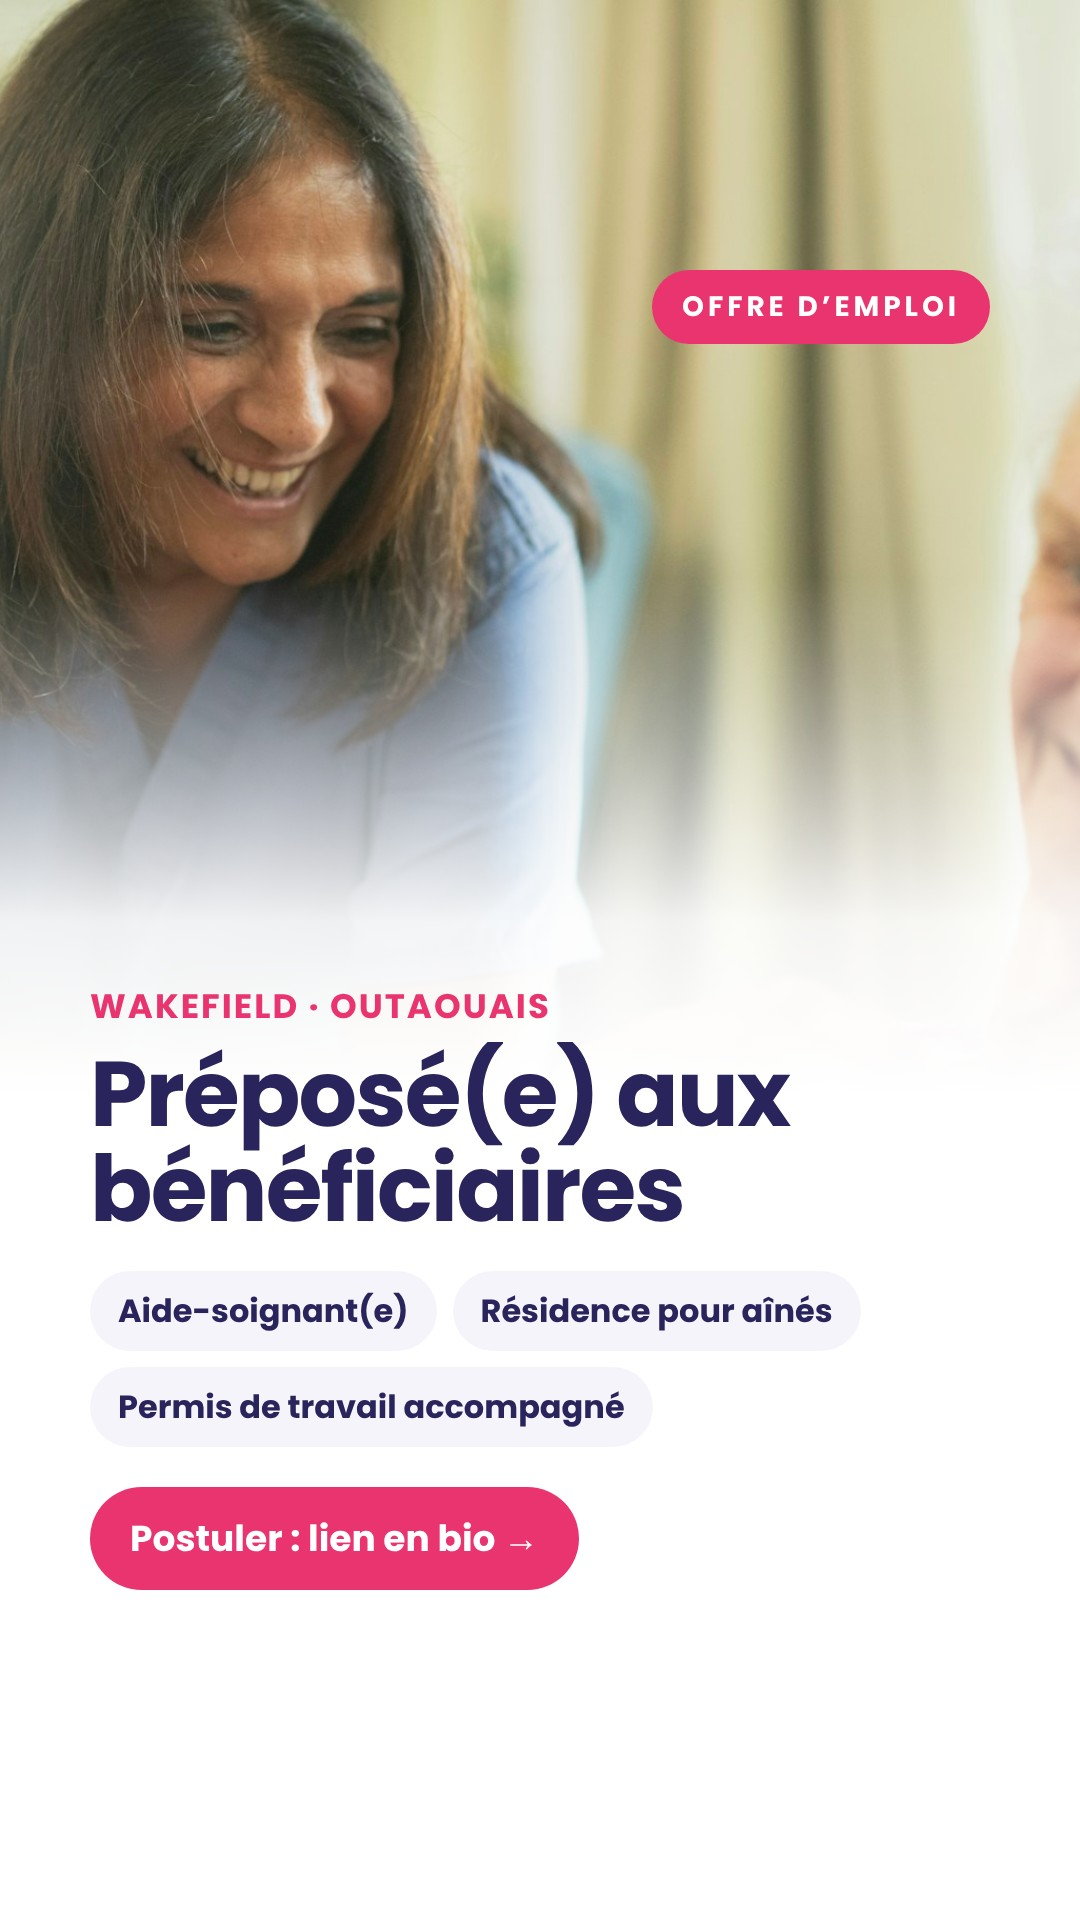
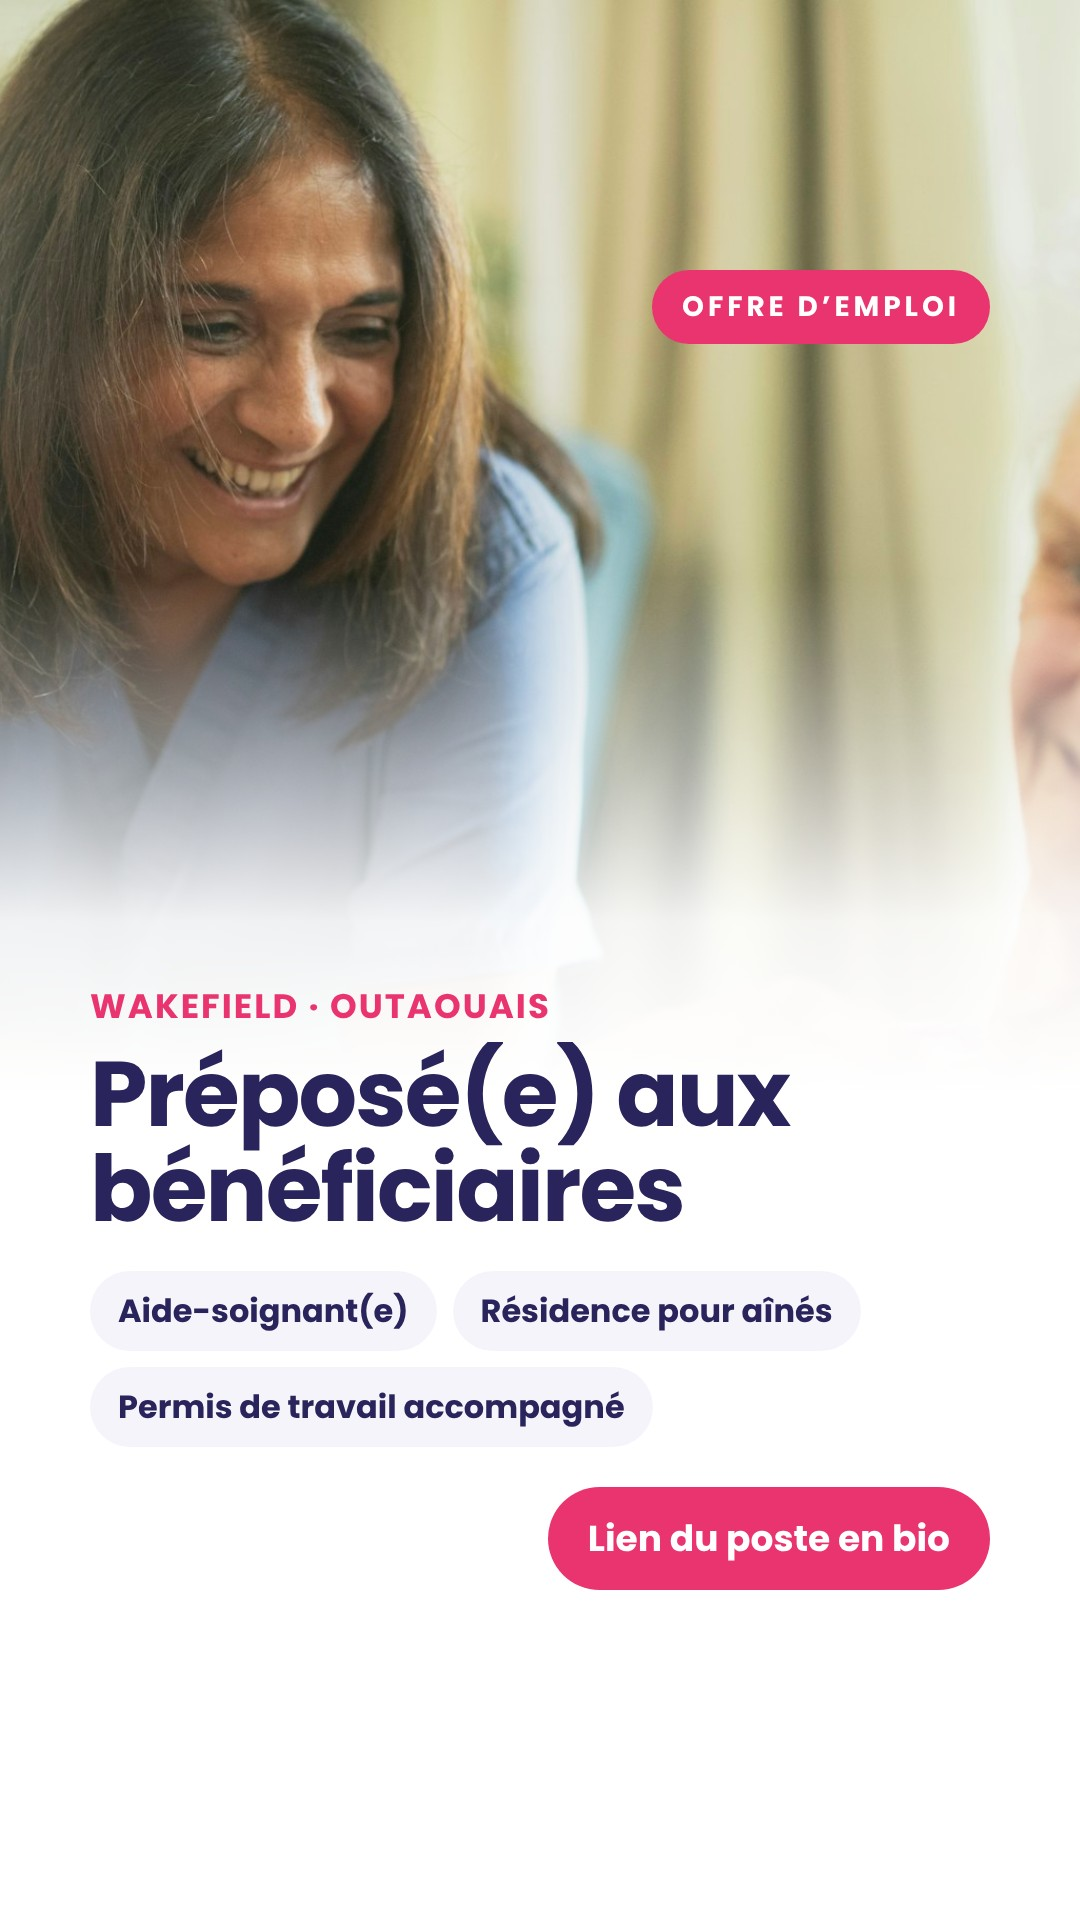
Offres : pastille « Lien du poste en bio », plus de salaire
Claude-Session: https://claude.ai/code/session_01NBGakcBRwoq7RKRswmKrSM

Changed region(s): [[0.0611, 0.75, 0.9167, 0.8438]]

diff --git a/tools/visuels/stories/offre-2.html b/tools/visuels/stories/offre-2.html
@@ -3,4 +3,4 @@
 .loc{color:#ea346f;font-weight:700;font-size:34px;letter-spacing:.06em;text-transform:uppercase}
 .s h1{font-size:92px;margin-top:14px}
 .ctab{display:inline-block;margin-top:40px;align-self:flex-start;background:#ea346f;color:#fff;font-weight:700;font-size:36px;padding:24px 40px;border-radius:999px}
-</style><style>.safe .tag{align-self:flex-end}</style></head><body><div class="s" style="background:#fff"><img class="photo" src="j-aide-soignante.jpg" style="object-position:30% 20%;height:62%"><div class="grad" style="background:linear-gradient(180deg,rgba(255,255,255,0) 30%,rgba(255,255,255,.92) 48%,#fff 57%)"></div><div class="safe"><span class="tag">Offre d’emploi</span><div style="margin-top:auto"><div class="loc">Wakefield · Outaouais</div><h1>Préposé(e) aux bénéficiaires</h1><div class="chips"><span class="chip">Aide-soignant(e)</span><span class="chip">Résidence pour aînés</span><span class="chip">Permis de travail accompagné</span></div><span class="ctab">Postuler : lien en bio →</span></div></div></div></body></html>
+</style><style>.safe .tag{align-self:flex-end}</style></head><body><div class="s" style="background:#fff"><img class="photo" src="j-aide-soignante.jpg" style="object-position:30% 20%;height:62%"><div class="grad" style="background:linear-gradient(180deg,rgba(255,255,255,0) 30%,rgba(255,255,255,.92) 48%,#fff 57%)"></div><div class="safe"><span class="tag">Offre d’emploi</span><div style="margin-top:auto"><div class="loc">Wakefield · Outaouais</div><h1>Préposé(e) aux bénéficiaires</h1><div class="chips"><span class="chip">Aide-soignant(e)</span><span class="chip">Résidence pour aînés</span><span class="chip">Permis de travail accompagné</span></div><div style="display:flex;justify-content:flex-end"><span class="ctab">Lien du poste en bio</span></div></div></div></div></body></html>

diff --git a/tools/visuels/stories/offre-4.html b/tools/visuels/stories/offre-4.html
@@ -3,4 +3,4 @@
 .loc{color:#ea346f;font-weight:700;font-size:34px;letter-spacing:.06em;text-transform:uppercase}
 .s h1{font-size:92px;margin-top:14px}
 .ctab{display:inline-block;margin-top:40px;align-self:flex-start;background:#ea346f;color:#fff;font-weight:700;font-size:36px;padding:24px 40px;border-radius:999px}
-</style><style>.safe .tag{align-self:flex-end}</style></head><body><div class="s" style="background:#fff"><img class="photo" src="j-vendeur.jpg" style="object-position:60% 30%;height:62%"><div class="grad" style="background:linear-gradient(180deg,rgba(255,255,255,0) 30%,rgba(255,255,255,.92) 48%,#fff 57%)"></div><div class="safe"><span class="tag">Offre d’emploi</span><div style="margin-top:auto"><div class="loc">Saguenay et autres villes</div><h1>Conseiller à la vente H/F</h1><div class="chips"><span class="chip">Meubles et électroménager</span><span class="chip">Équipe de 4 à 7</span><span class="chip">Permis de travail accompagné</span></div><span class="ctab">Postuler : lien en bio →</span></div></div></div></body></html>
+</style><style>.safe .tag{align-self:flex-end}</style></head><body><div class="s" style="background:#fff"><img class="photo" src="j-vendeur.jpg" style="object-position:60% 30%;height:62%"><div class="grad" style="background:linear-gradient(180deg,rgba(255,255,255,0) 30%,rgba(255,255,255,.92) 48%,#fff 57%)"></div><div class="safe"><span class="tag">Offre d’emploi</span><div style="margin-top:auto"><div class="loc">Saguenay et autres villes</div><h1>Conseiller à la vente H/F</h1><div class="chips"><span class="chip">Meubles et électroménager</span><span class="chip">Équipe de 4 à 7</span><span class="chip">Permis de travail accompagné</span></div><div style="display:flex;justify-content:flex-end"><span class="ctab">Lien du poste en bio</span></div></div></div></div></body></html>

diff --git a/tools/visuels/stories/offre-3.html b/tools/visuels/stories/offre-3.html
@@ -3,4 +3,4 @@
 .loc{color:#ea346f;font-weight:700;font-size:34px;letter-spacing:.06em;text-transform:uppercase}
 .s h1{font-size:92px;margin-top:14px}
 .ctab{display:inline-block;margin-top:40px;align-self:flex-start;background:#ea346f;color:#fff;font-weight:700;font-size:36px;padding:24px 40px;border-radius:999px}
-</style><style>.safe .tag{align-self:flex-end}</style></head><body><div class="s" style="background:#fff"><img class="photo" src="j-mecanicien.jpg" style="object-position:50% 30%;height:62%"><div class="grad" style="background:linear-gradient(180deg,rgba(255,255,255,0) 30%,rgba(255,255,255,.92) 48%,#fff 57%)"></div><div class="safe"><span class="tag">Offre d’emploi</span><div style="margin-top:auto"><div class="loc">Région de Québec</div><h1>Mécanicien poids lourds H/F</h1><div class="chips"><span class="chip">Temps plein 40 h</span><span class="chip">Formation fournie</span><span class="chip">Permis de travail accompagné</span></div><span class="ctab">Postuler : lien en bio →</span></div></div></div></body></html>
+</style><style>.safe .tag{align-self:flex-end}</style></head><body><div class="s" style="background:#fff"><img class="photo" src="j-mecanicien.jpg" style="object-position:50% 30%;height:62%"><div class="grad" style="background:linear-gradient(180deg,rgba(255,255,255,0) 30%,rgba(255,255,255,.92) 48%,#fff 57%)"></div><div class="safe"><span class="tag">Offre d’emploi</span><div style="margin-top:auto"><div class="loc">Région de Québec</div><h1>Mécanicien poids lourds H/F</h1><div class="chips"><span class="chip">Temps plein 40 h</span><span class="chip">Formation fournie</span><span class="chip">Permis de travail accompagné</span></div><div style="display:flex;justify-content:flex-end"><span class="ctab">Lien du poste en bio</span></div></div></div></div></body></html>

diff --git a/tools/visuels/stories/offre-1.html b/tools/visuels/stories/offre-1.html
@@ -3,4 +3,4 @@
 .loc{color:#ea346f;font-weight:700;font-size:34px;letter-spacing:.06em;text-transform:uppercase}
 .s h1{font-size:92px;margin-top:14px}
 .ctab{display:inline-block;margin-top:40px;align-self:flex-start;background:#ea346f;color:#fff;font-weight:700;font-size:36px;padding:24px 40px;border-radius:999px}
-</style><style>.safe .tag{align-self:flex-end}</style></head><body><div class="s" style="background:#fff"><img class="photo" src="j-chef.jpg" style="object-position:50% 25%;height:62%"><div class="grad" style="background:linear-gradient(180deg,rgba(255,255,255,0) 30%,rgba(255,255,255,.92) 48%,#fff 57%)"></div><div class="safe"><span class="tag">Offre d’emploi</span><div style="margin-top:auto"><div class="loc">Berthierville · Lanaudière</div><h1>Chef de cuisine H/F</h1><div class="chips"><span class="chip">26 à 30 $ CA / h + pourboires</span><span class="chip">Temps plein 40 h</span><span class="chip">Permis de travail accompagné</span></div><span class="ctab">Postuler : lien en bio →</span></div></div></div></body></html>
+</style><style>.safe .tag{align-self:flex-end}</style></head><body><div class="s" style="background:#fff"><img class="photo" src="j-chef.jpg" style="object-position:50% 25%;height:62%"><div class="grad" style="background:linear-gradient(180deg,rgba(255,255,255,0) 30%,rgba(255,255,255,.92) 48%,#fff 57%)"></div><div class="safe"><span class="tag">Offre d’emploi</span><div style="margin-top:auto"><div class="loc">Berthierville · Lanaudière</div><h1>Chef de cuisine H/F</h1><div class="chips"><span class="chip">Bistro / pub</span><span class="chip">Temps plein 40 h</span><span class="chip">Permis de travail accompagné</span></div><div style="display:flex;justify-content:flex-end"><span class="ctab">Lien du poste en bio</span></div></div></div></div></body></html>

diff --git a/tools/visuels/offre.html b/tools/visuels/offre.html
@@ -16,4 +16,4 @@ h1{color:#29245c;font-size:96px;line-height:1.02;margin-top:12px}
 <div class="in"><span class="tag">Offre d’emploi</span>
 <div class="bottom"><div class="loc">Au Québec · Restauration</div><h1>Cuisinier H/F</h1>
 <div class="chips"><span class="chip">Permis de travail accompagné</span><span class="chip">Logement meublé</span><span class="chip">Repas offert</span></div>
-<div class="row"><span class="cta">Postuler →</span></div></div></div></div></body></html>
+<div class="row" style="justify-content:flex-end"><span class="cta">Lien du poste en bio</span></div></div></div></div></body></html>
